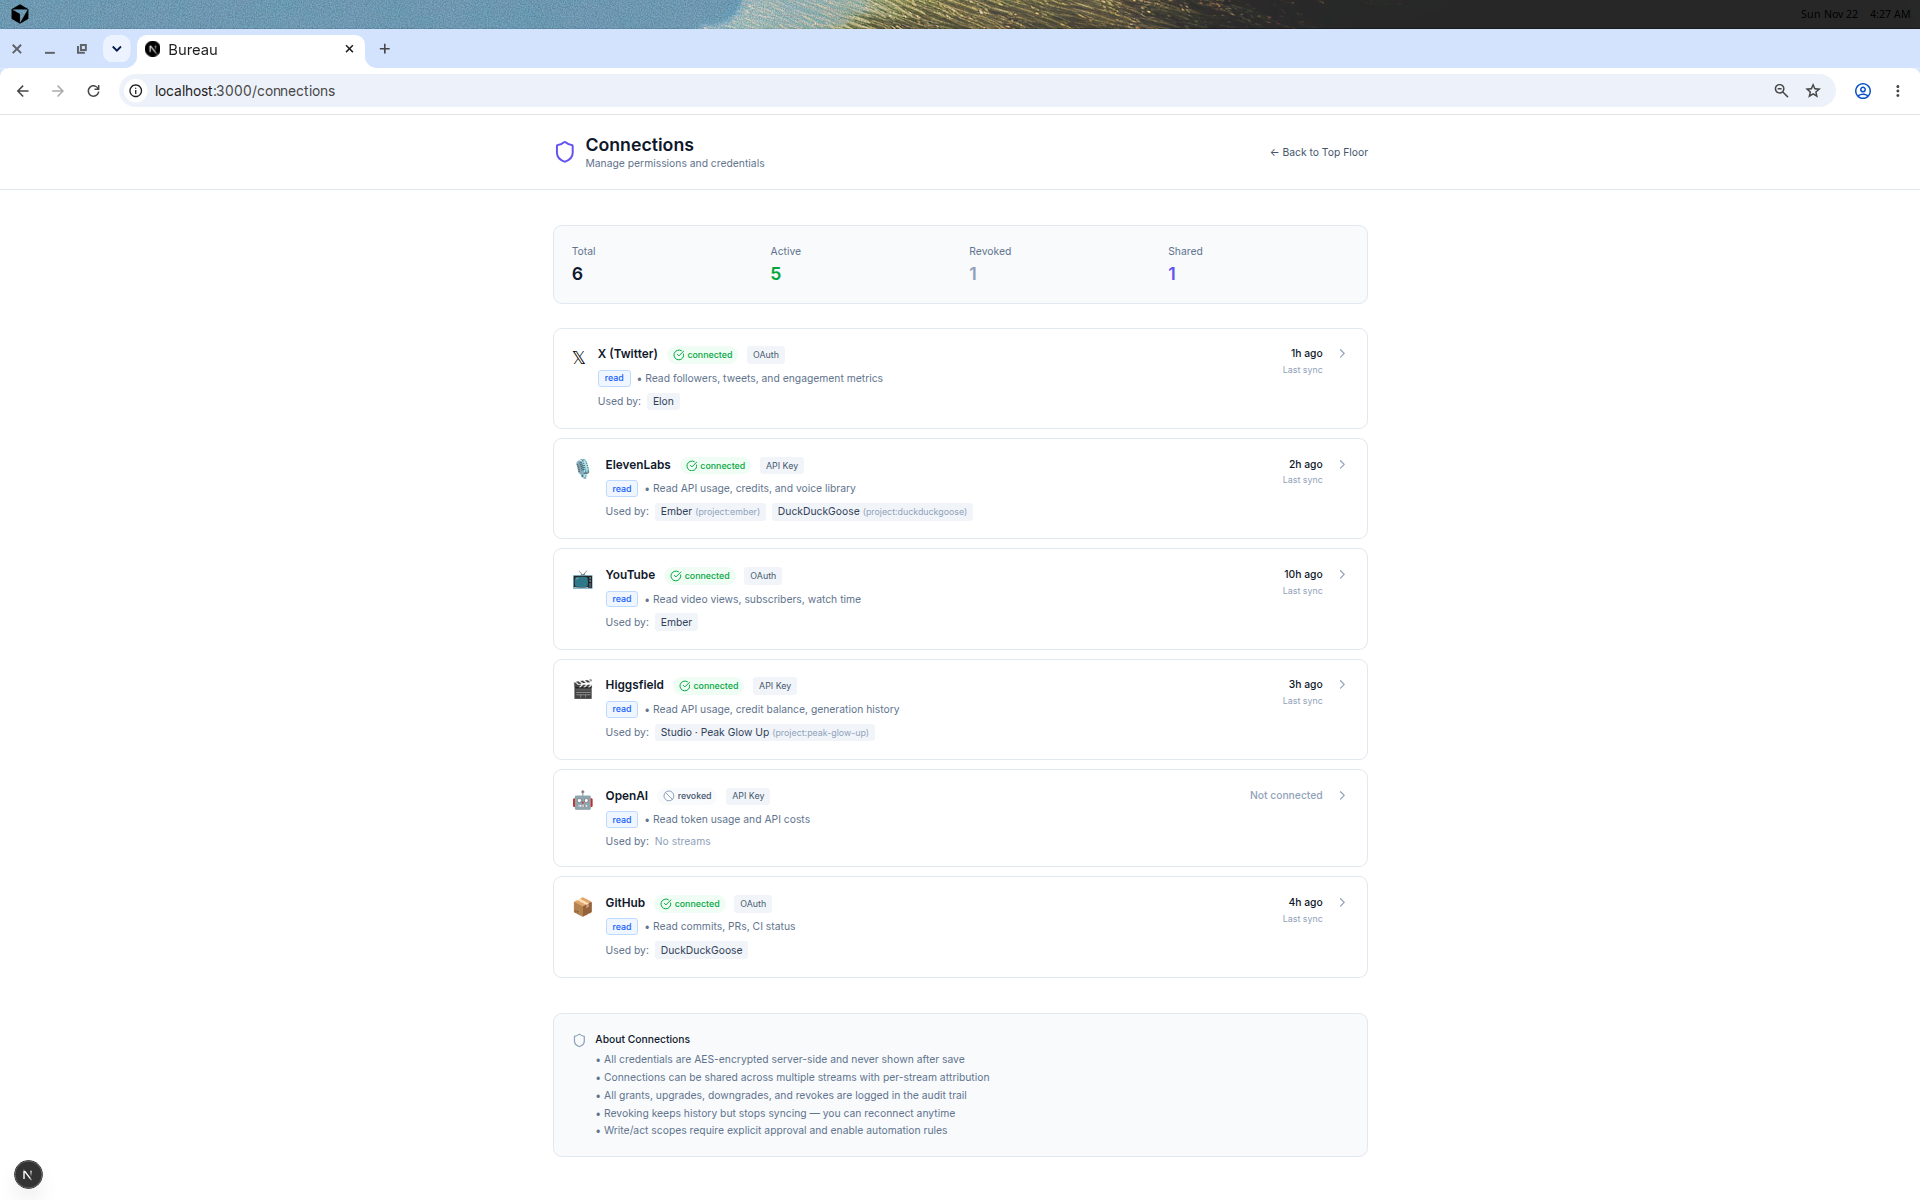
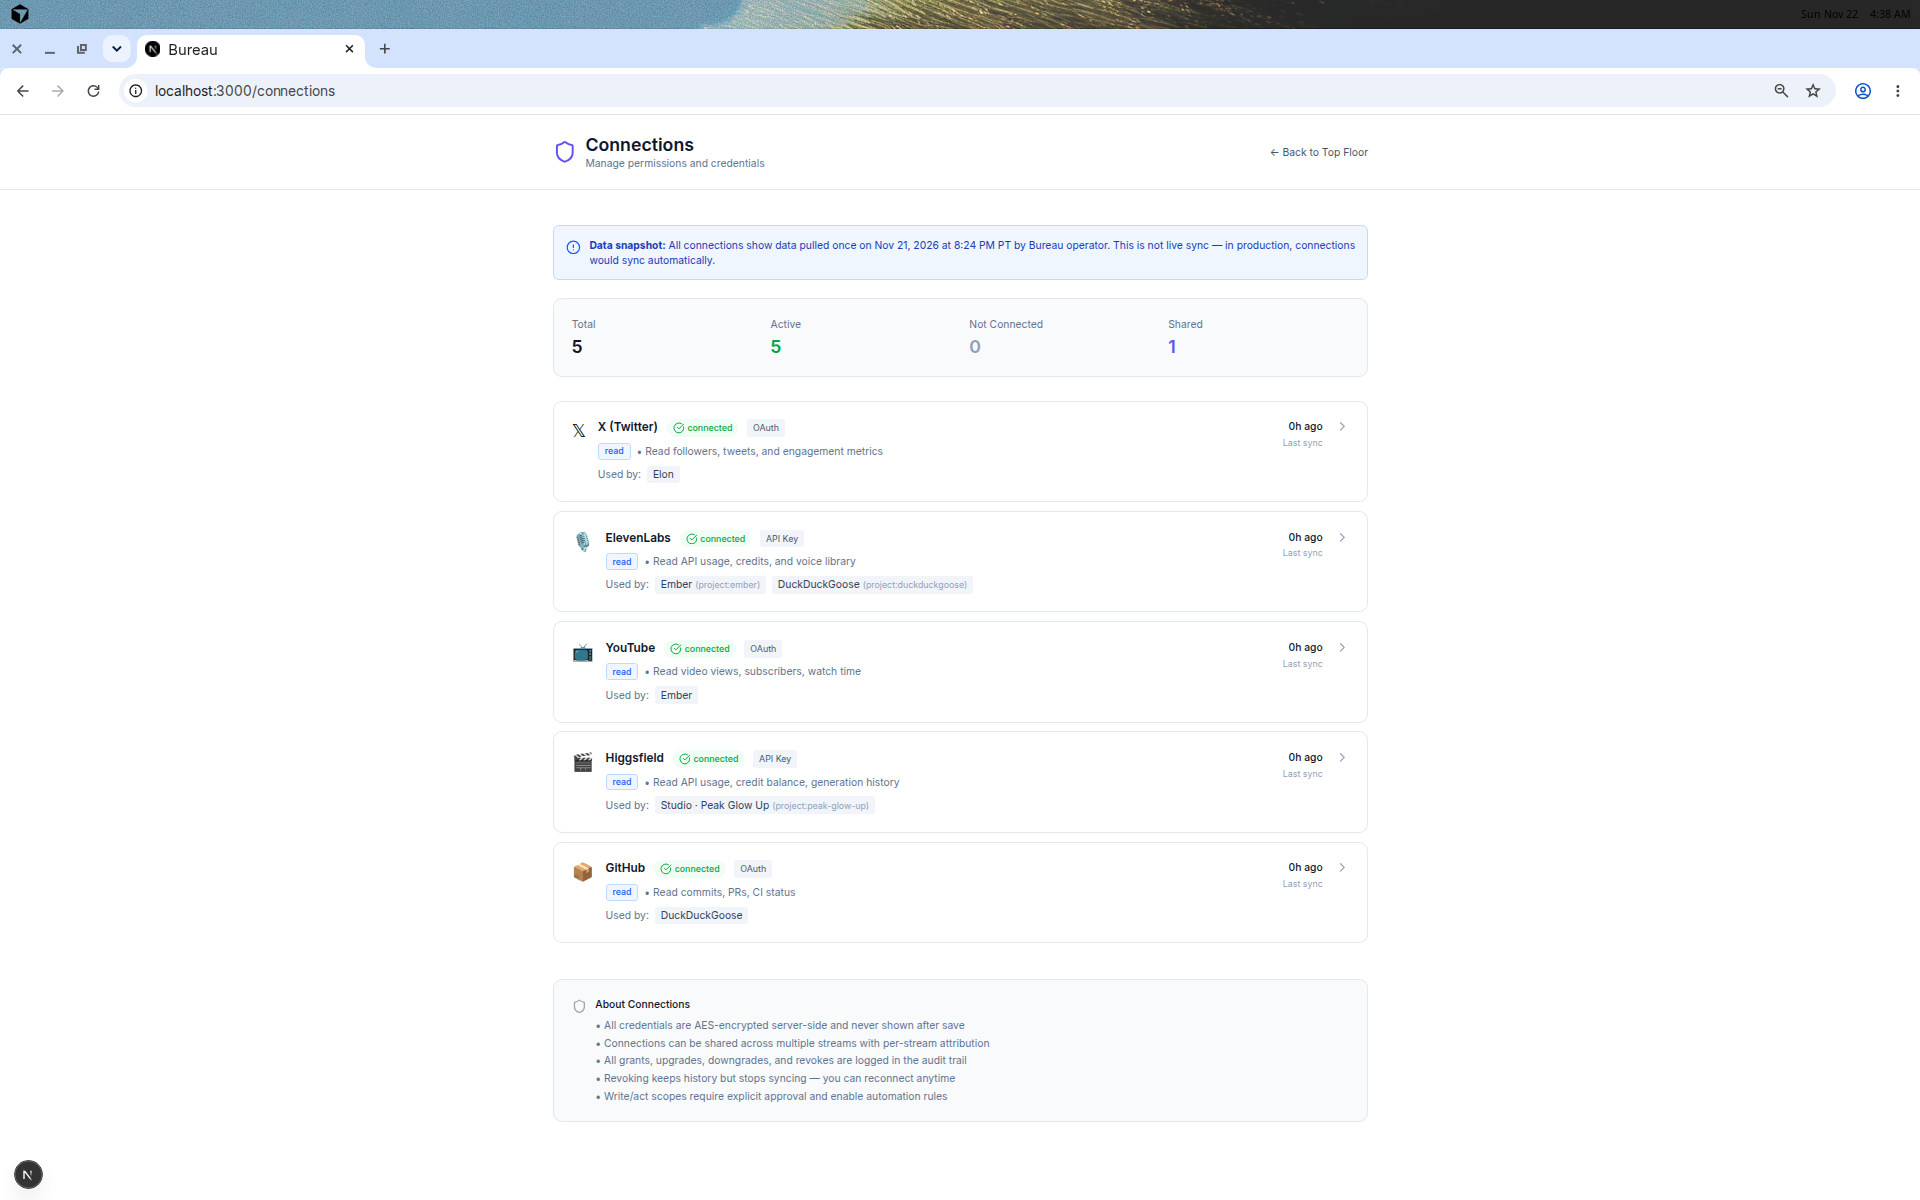
Fix: Show actual date instead of relative time on Connections page

diff --git a/app/connections/page.tsx b/app/connections/page.tsx
@@ -5,7 +5,7 @@ import { Building2, Shield, RefreshCw, Ban, ChevronDown, ChevronRight, AlertCirc
 import { useRouter } from 'next/navigation';
 import { SAMPLE_CONNECTIONS } from '@/lib/sample-connections';
 import { Connection, PROVIDER_DEFINITIONS, getConnectionFreshness } from '@/lib/connection-types';
-import { formatFullDateTime } from '@/lib/timezone-utils';
+import { formatFullDateTime, formatShortDate } from '@/lib/timezone-utils';
 
 export default function ConnectionsPage() {
   const router = useRouter();
@@ -209,13 +209,13 @@ export default function ConnectionsPage() {
                         </div>
                       </div>
 
-                      {/* Last Sync */}
+                      {/* Data Pull Time */}
                       <div className="text-right">
-                        <div className={`text-sm font-medium ${freshness.status === 'fresh' ? 'text-slate-900' : 'text-slate-400'}`}>
-                          {freshness.message}
+                        <div className="text-sm font-medium text-slate-900">
+                          {conn.lastSyncAt ? formatShortDate(conn.lastSyncAt) : '—'}
                         </div>
                         {conn.status === 'connected' && (
-                          <div className="text-xs text-slate-400 mt-1">Last sync</div>
+                          <div className="text-xs text-slate-400 mt-1">Data pulled</div>
                         )}
                       </div>
 
